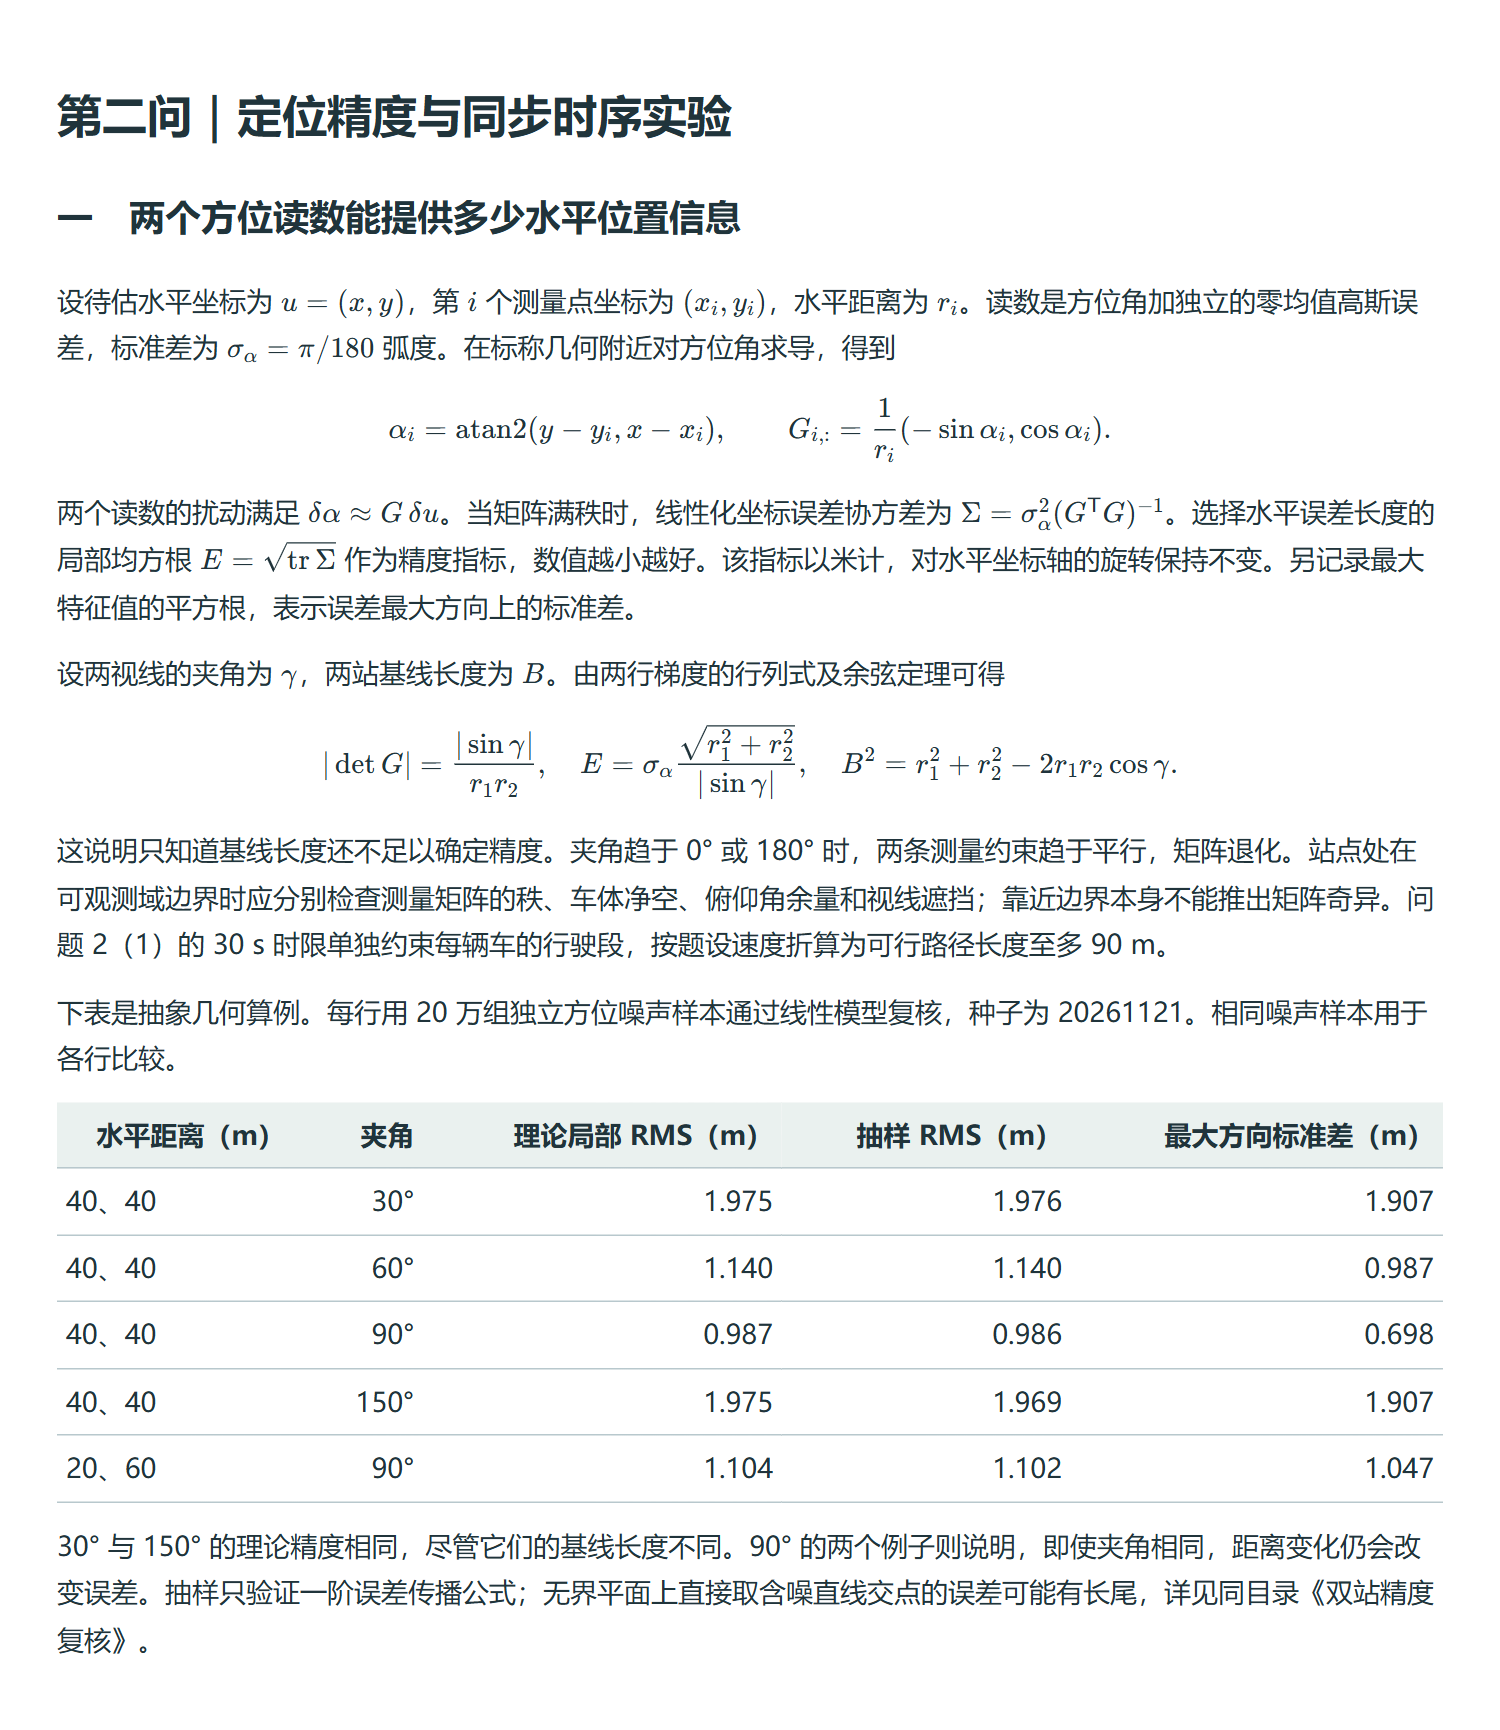
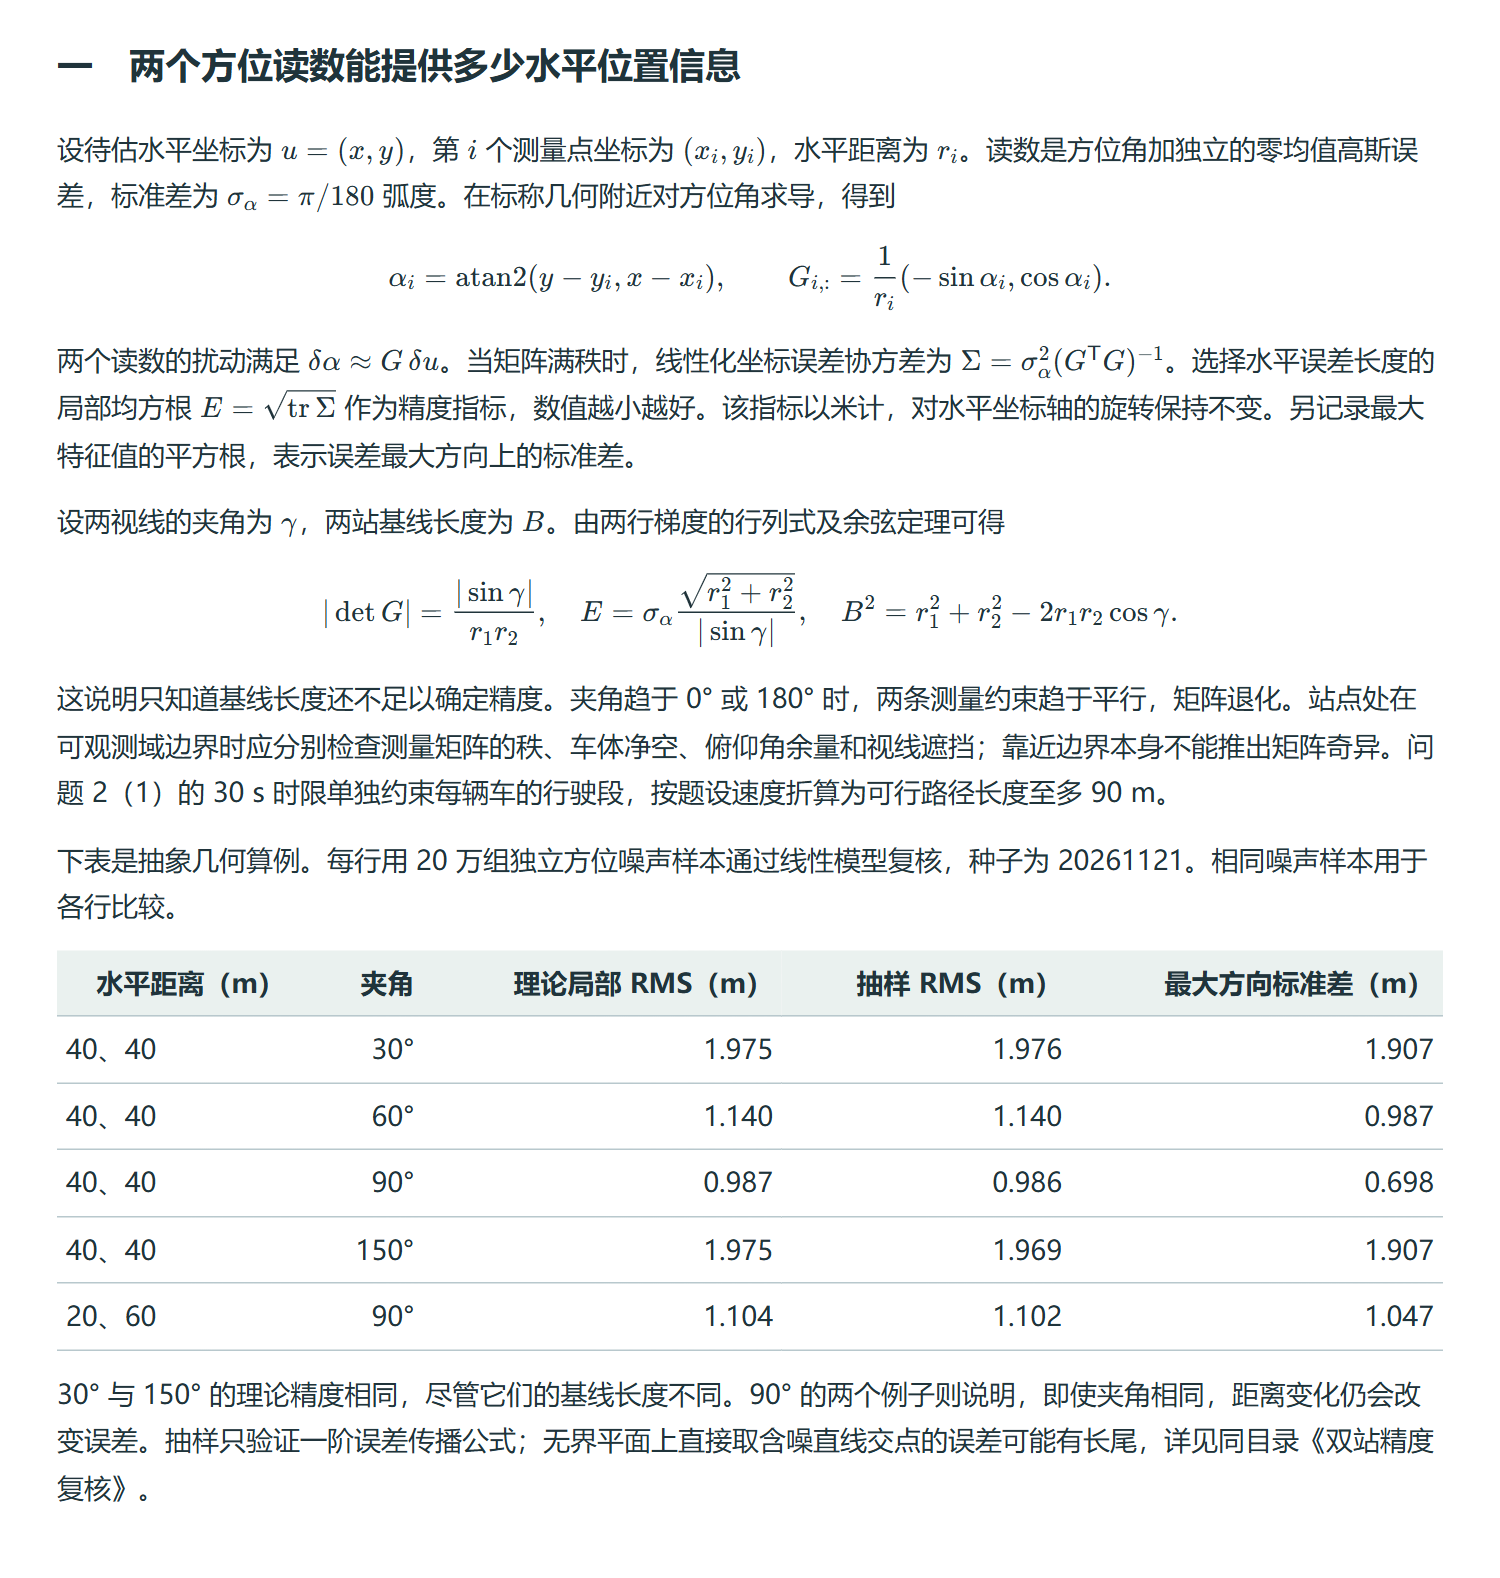
清理第二问第（2）小问文档及工作台引用

Changed region(s): [[0.0307, 0.0311, 0.9507, 0.9626], [0.644, 0.0621, 0.9507, 0.1242], [0.7053, 0.3726, 0.7667, 0.4037]]

diff --git a/workbook.md b/workbook.md
@@ -43,29 +43,14 @@
 - 已恢复无插图的三维图与绘图脚本；C、D 节点图片与该版本逐字节一致。
 
 ## sw26-q2-analysis
-- 第二问局部误差模型复核与双资源同步时序对照。独立脚本、数据和文字归第二问，节点引用同步。
-- 完成五组局部精度实验和两种同步顺序回放；两页公式预览、数据与代码已在 C/D 节点核对。抽象算例不作为题设站对或三告警调度成绩。
-
-## sw26-q2-time-bound
-- 使用题设参数推导不依赖站址的五车三告警时间下界，补入第二问文档和现有节点预览。
-- 核算六种高度先后组合，共同下界约 6.439385 秒；该值不作为可达调度成绩。C/D 节点文稿和新增预览已核验。
+- 五组局部精度实验已核验，数据与文稿见第二问第（1）小问。
 
 ## sw26-q1-range-label
 - 在第一问三维图紫色俯仰超限区旁标注水平距离区间，并同步节点图。
 - 三维图已重绘并检查标注与图例位置；C、D 节点在线图片与更新文件逐字节一致。
 
-## sw26-q2-score
-- 第二问方案比较与最优性说明。增加独立的就绪时刻核算入口，以既有算例验证并登记到节点。
-- 既有算例独立复算得到 7 秒、29.17%；反向比较及缺失任务检查通过。C/D 节点已同步文档与脚本。
-
 ## sw26-q2-1-proof
 - 第二问（1）已完成。双站精度文稿列出 T2 的一组全局最优解、下界证明及可达性检查，矩阵独立复算吻合。当前仓库工作台的 C、D 节点文稿与磁盘逐字节一致。工作台地址见本机运行连接文件，无任务缓存。
-
-## sw26-q2-five-cart-example
-- 已交付五车三工位抽象算例。最近指派与最优方案的最晚开始时间分别为 18、14 秒。十二条事件、六方向下界、6,000 组枚举及 C/D 节点文件均已核对。无任务缓存。
-
-## sw26-q2-gantt-pair
-- 已交付两张同尺度甘特图，算例正文已嵌图。已逐图目视核对五阶段图例、配对作业条及 18/14 秒参考线，C/D 节点图片与磁盘一致。无临时文件。
 
 ## sw26-q2-1-boundary-text
 - 已将交会角退化、误差上限判据及三类边界的处理纳入第二问（1）正文。五个交会角的协方差与主方向标准差已复算，C/D 节点文稿与磁盘一致。无临时文件。
@@ -79,17 +64,5 @@
 ## sw26-q2-1-result-name
 - 结论文档已更名，正文标题、实验文档交叉引用及 C/D 工作台入口均已同步，文内图片路径与两个在线入口已核对。无临时文件。
 
-## sw26-q2-2-result
-- 已将五车三工位算例整理为《第二问第（2）题结论》，核对 12 行时间记录及两张甘特图，复算 18 秒、14 秒与 22.22% 改善幅度，并核对 C/D 工作台入口。无临时文件。
-
-## sw26-q2-continuous
-- 已补入原题连续时间计量与理论下界，按四角点和六种不同目标接续复算得 6.8137534 秒；可达性及实际方案成绩未验证。无临时文件。
-
-## sw26-q2-remove-example
-- 已从结论文档删除算例章节及其图表引用，核对了原题段落和工作台 C/D 两个文档入口。无临时文件。
-
-## sw26-q2-origin-bound
-- 已从原题复算 30 项起点与告警顺序组合，共同时间下界为 7.4134402289 秒；已核对文稿及 C/D 节点引用。两种可行方案的成绩未确定。无临时文件。
-
-## sw26-q2-bound-strict-9bd374a6
-- 已在第二问第（2）题结论文档补证原下界不可逼近，复核了 30 项、次小值和起点方位用时差。原题可行成绩与基准差值仍未确定。无临时文件。
+## q22-doc-clean-8174
+- 已清理第二问第（2）小问的文档、图表、混合文稿对应章节及工作台引用。

diff --git a/综合/文档/B题建模稿.md b/综合/文档/B题建模稿.md
@@ -28,21 +28,13 @@ $$V_j=\{p\in F:-10°\le\beta_j\le80°,\quad [C,T_j]\cap K_l=\varnothing\ \forall
 
 判断遮挡要检查整条三维线段。越过屋顶可以通视，刚好擦过屋顶或墙角均算遮挡。第一问的目标为在 $V_1$ 内极小化 $r_1$，等价于极大化 $1/r_1$。俯仰上限推出 $r_1\ge(H_1-2)/\tan80°$；下界能否取得，取决于对应圆周是否与 $V_1$ 相交。若同优，约定优先到任一起点的最短可行路程较小者，仍并列时按坐标字典序。视线相切点被排除，若最优序列只趋于不可行边界，须区分下确界与可达到的最小值。后续图应分别标出车体禁区、遮挡区与俯仰禁区，保留图例和米制坐标。
 
-## 第二问｜先衡量双站精度，再定义三任务的同步时间
+## 第二问｜双站定位精度
 
 **（1）双站精度。** 对给定站对，令 $r_i$ 和 $\alpha_i$ 分别为站点至目标的水平距离和方位角。方位误差独立，标准差 $\sigma_\alpha=\pi/180$。对目标水平坐标作一阶线性化，测量雅可比第 $i$ 行为 $(-\sin\alpha_i,\cos\alpha_i)/r_i$。记此矩阵为 $G$，则局部坐标误差协方差为 $\Sigma=\sigma_\alpha^2(G^TG)^{-1}$。用水平误差长度的均方根作指标，单位为米，两坐标方向权重相同：
 
 $$E=\sqrt{\operatorname{tr}\Sigma}=\sigma_\alpha\frac{\sqrt{r_1^2+r_2^2}}{|\sin\gamma|},\qquad B^2=r_1^2+r_2^2-2r_1r_2\cos\gamma.$$
 
 其中 $\gamma\in[0,\pi]$ 为两条水平视线的夹角，$B$ 为基线长。选择两个不同车辆及各自在 $V_2$ 内的站点以最小化 $E$。记 $d_F$ 为车心全程留在 $F$ 内的最短路径长度，不可达时为无穷。各车分别满足 $d_F(p_i^0,p_i)/3\le30$。30 秒仅约束本小问的行驶段。夹角趋于零或平角时，某个坐标方向几乎不可辨识，奇异站对排除；近奇异情形记录条件数，避免把线性化指标解释为实际误差保证。可行域边界本身不必使 $G$ 降秩，须单独报告几何裕量与误差预测。
-
-**（2）同步服务。** 每项任务选两台不同车辆、两个可观测且能交会的站点，每车有一个有序任务序列。每项任务恰好出现两次，同一车辆同一时刻只服务一个任务。设车辆 $i$ 上次复位结束于 $e_i$、位置为 $p_i^-$；首项取 $e_i=0$ 和题设起点。到本站 $p_{ij}$ 的时间为 $a_{ij}=e_i+d_F(p_i^-,p_{ij})/3$。从正东水平姿态转至观测姿态所需时间为
-
-$$g_{ij}=\max(|\operatorname{wrap}_{[-\pi,\pi)}\alpha_{ij}|,|\beta_{ij}|)/(\pi/6).$$
-
-约定方位轴可走较短转角。任务 $j$ 两车就绪后立即开始，$S_j=\max_{i\text{ 服务 }j}(a_{ij}+g_{ij})$。观测结束于 $S_j+5$，各车分别在 $S_j+5+g_{ij}$ 复位完毕，下一段从各自的新状态起算。候选序列须存在满足以上先后约束的时间轴。优化目标为 $\min\max_j S_j$。报告逐车的出发、到站、就绪、等待、观测开始、结束与复位完成时刻。
-
-作比较时采用同一组可行候选站。定义最近指派基线为按 T1、T2、T3 顺序追加任务，每次选从两车当前序列末站到两个候选站的总可行路程最短的组合，并列按车辆和站点编号。全部指派后统一按上述时间轴计分。此基线只用距离作选择，允许检验距离节省是否被双车等待抵消。候选集上得到的解只代表该离散集合；后续须在不同分辨率下比较并复核连续几何。
 
 ## 第三问｜由单次角误差模型定义距离阈值
 

diff --git a/第二问/文档/第二问定位精度实验.md b/第二问/文档/第二问定位精度实验.md
@@ -1,0 +1,27 @@
+# 第二问｜定位精度实验
+
+## 一　两个方位读数能提供多少水平位置信息
+
+设待估水平坐标为 $u=(x,y)$，第 $i$ 个测量点坐标为 $(x_i,y_i)$，水平距离为 $r_i$。读数是方位角加独立的零均值高斯误差，标准差为 $\sigma_\alpha=\pi/180$ 弧度。在标称几何附近对方位角求导，得到
+
+$$\alpha_i=\operatorname{atan2}(y-y_i,x-x_i),\qquad G_{i,:}=\frac{1}{r_i}(-\sin\alpha_i,\cos\alpha_i).$$
+
+两个读数的扰动满足 $\delta\alpha\approx G\,\delta u$。当矩阵满秩时，线性化坐标误差协方差为 $\Sigma=\sigma_\alpha^2(G^\mathsf{T}G)^{-1}$。选择水平误差长度的局部均方根 $E=\sqrt{\mathrm{tr}\,\Sigma}$ 作为精度指标，数值越小越好。该指标以米计，对水平坐标轴的旋转保持不变。另记录最大特征值的平方根，表示误差最大方向上的标准差。
+
+设两视线的夹角为 $\gamma$，两站基线长度为 $B$。由两行梯度的行列式及余弦定理可得
+
+$$|\det G|=\frac{|\sin\gamma|}{r_1r_2},\quad E=\sigma_\alpha\frac{\sqrt{r_1^2+r_2^2}}{|\sin\gamma|},\quad B^2=r_1^2+r_2^2-2r_1r_2\cos\gamma.$$
+
+这说明只知道基线长度还不足以确定精度。夹角趋于 0° 或 180° 时，两条测量约束趋于平行，矩阵退化。站点处在可观测域边界时应分别检查测量矩阵的秩、车体净空、俯仰角余量和视线遮挡；靠近边界本身不能推出矩阵奇异。问题 2（1）的 30 s 时限单独约束每辆车的行驶段，按题设速度折算为可行路径长度至多 90 m。
+
+下表是抽象几何算例。每行用 20 万组独立方位噪声样本通过线性模型复核，种子为 20261121。相同噪声样本用于各行比较。
+
+| 水平距离（m） | 夹角 | 理论局部 RMS（m） | 抽样 RMS（m） | 最大方向标准差（m） |
+|---|---:|---:|---:|---:|
+| 40、40 | 30° | 1.975 | 1.976 | 1.907 |
+| 40、40 | 60° | 1.140 | 1.140 | 0.987 |
+| 40、40 | 90° | 0.987 | 0.986 | 0.698 |
+| 40、40 | 150° | 1.975 | 1.969 | 1.907 |
+| 20、60 | 90° | 1.104 | 1.102 | 1.047 |
+
+30° 与 150° 的理论精度相同，尽管它们的基线长度不同。90° 的两个例子则说明，即使夹角相同，距离变化仍会改变误差。抽样只验证一阶误差传播公式；无界平面上直接取含噪直线交点的误差可能有长尾，详见同目录《[双站精度复核](第二问第（1）题结论-T2最优站对与车组选择.md)》。
